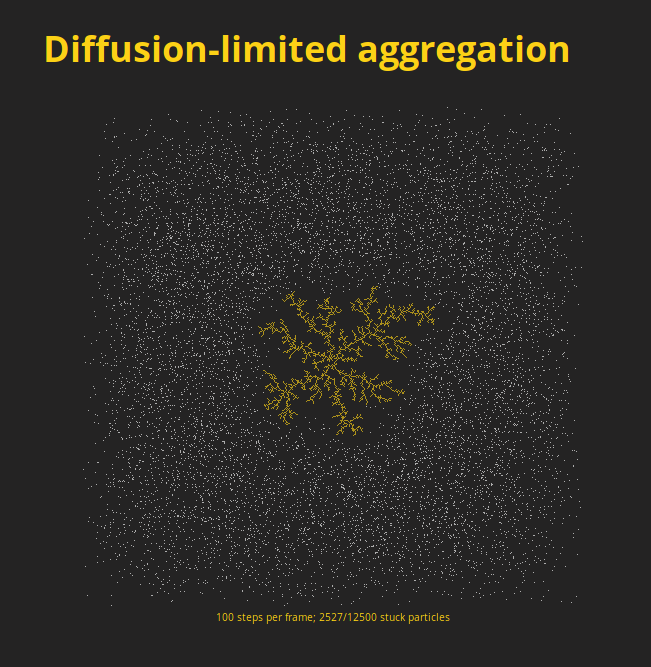
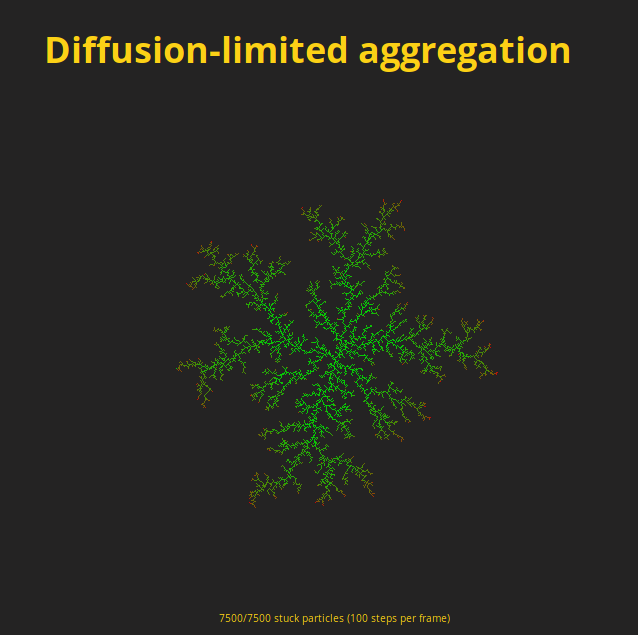
Added colours.

diff --git a/simulation.js b/simulation.js
@@ -34,7 +34,26 @@ function Simulation(width, height, ratio) {
     for (var j = 0; j < this.particles.length; j++) {
         this.particles[j] = this.randomPosition();
     }
+
+    this.gradient = [
+        0x00F000,
+        0x28C800,
+        0x50A000,
+        0x787800,
+        0xA05000,
+        0xC82800,
+        0xF00000,
+    ];
 }
+
+Simulation.prototype.colourAt = function (steps) {
+    var maxSteps = this.steps;
+    var index = Math.floor((steps / maxSteps) * this.gradient.length) % this.gradient.length;
+    var colour = this.gradient[index];
+    return [(colour & 0xff0000) >> 16,
+            (colour & 0x00ff00) >> 8,
+            (colour & 0x0000ff)];
+};
 
 Simulation.prototype.gridIndex = function (x, y) {
     return x + y * this.width;
@@ -104,6 +123,10 @@ Simulation.prototype.move = function (position) {
     };
 };
 
+Simulation.prototype.isDone = function () {
+    return this.particles.length === 0;
+};
+
 Simulation.prototype.step = function (steps = 1) {
     if (!this.startTime) {
         this.startTime = performance.now();
@@ -125,14 +148,12 @@ Simulation.prototype.step = function (steps = 1) {
             break;
         }
     }
-    var done = this.particles.length === 0;
-    if (done) {
+    if (this.isDone()) {
         this.duration = (performance.now() - this.startTime) / 1000;
         console.log(
             "Simulation finished in %s steps after %.2f seconds.",
             this.steps, this.duration);
     }
-    return done;
 };
 
 Simulation.prototype.paint = function (canvas) {
@@ -147,14 +168,17 @@ Simulation.prototype.paint = function (canvas) {
         data[4 * index + 0] = 0x80;
         data[4 * index + 1] = 0x80;
         data[4 * index + 2] = 0x80;
-        data[4 * index + 3] = 0xff;
+        data[4 * index + 3] = 0xd0;
     }
+    var done = this.isDone();
+    var r, g, b;
     for (var j = 0; j < this.stuckParticles.length; j++) {
         particle = this.stuckParticles[j];
         index = this.gridIndex(particle.x, particle.y);
-        data[4 * index + 0] = 0x90;
-        data[4 * index + 1] = 0xff;
-        data[4 * index + 2] = 0x90;
+        [r, g, b] = done ? this.colourAt(this.grid[index]) : [0x00, 0xf0, 0x00];
+        data[4 * index + 0] = r;
+        data[4 * index + 1] = g;
+        data[4 * index + 2] = b;
         data[4 * index + 3] = 0xd0;
     }
     ctx.putImageData(imagedata, 0, 0);

diff --git a/index.html b/index.html
@@ -32,11 +32,12 @@
          stuckParticles = document.getElementById("stuck-particles");
 
          var update = function() {
-             var done = simulation.step(STEPS);
+             simulation.step(STEPS);
              simulation.paint(canvas);
              stuckParticles.innerHTML = simulation.stuckParticles.length;
-             if (done) {
+             if (simulation.isDone()) {
                  clearInterval(refreshIntervalId);
+                 //simulation.paint(canvas);
              }
          };
 
